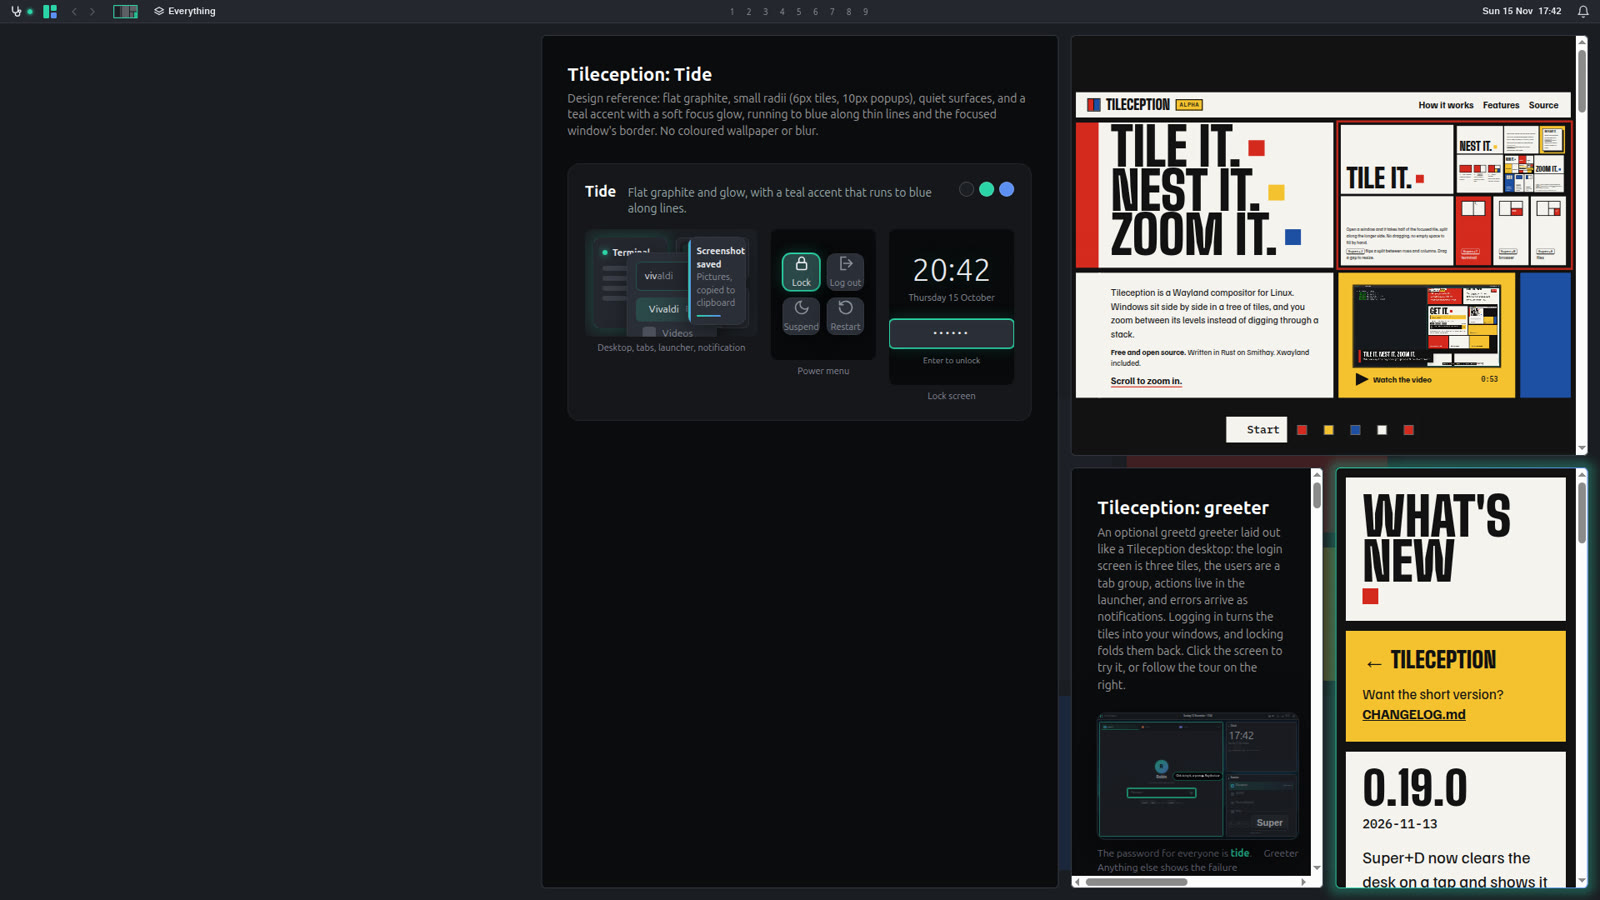
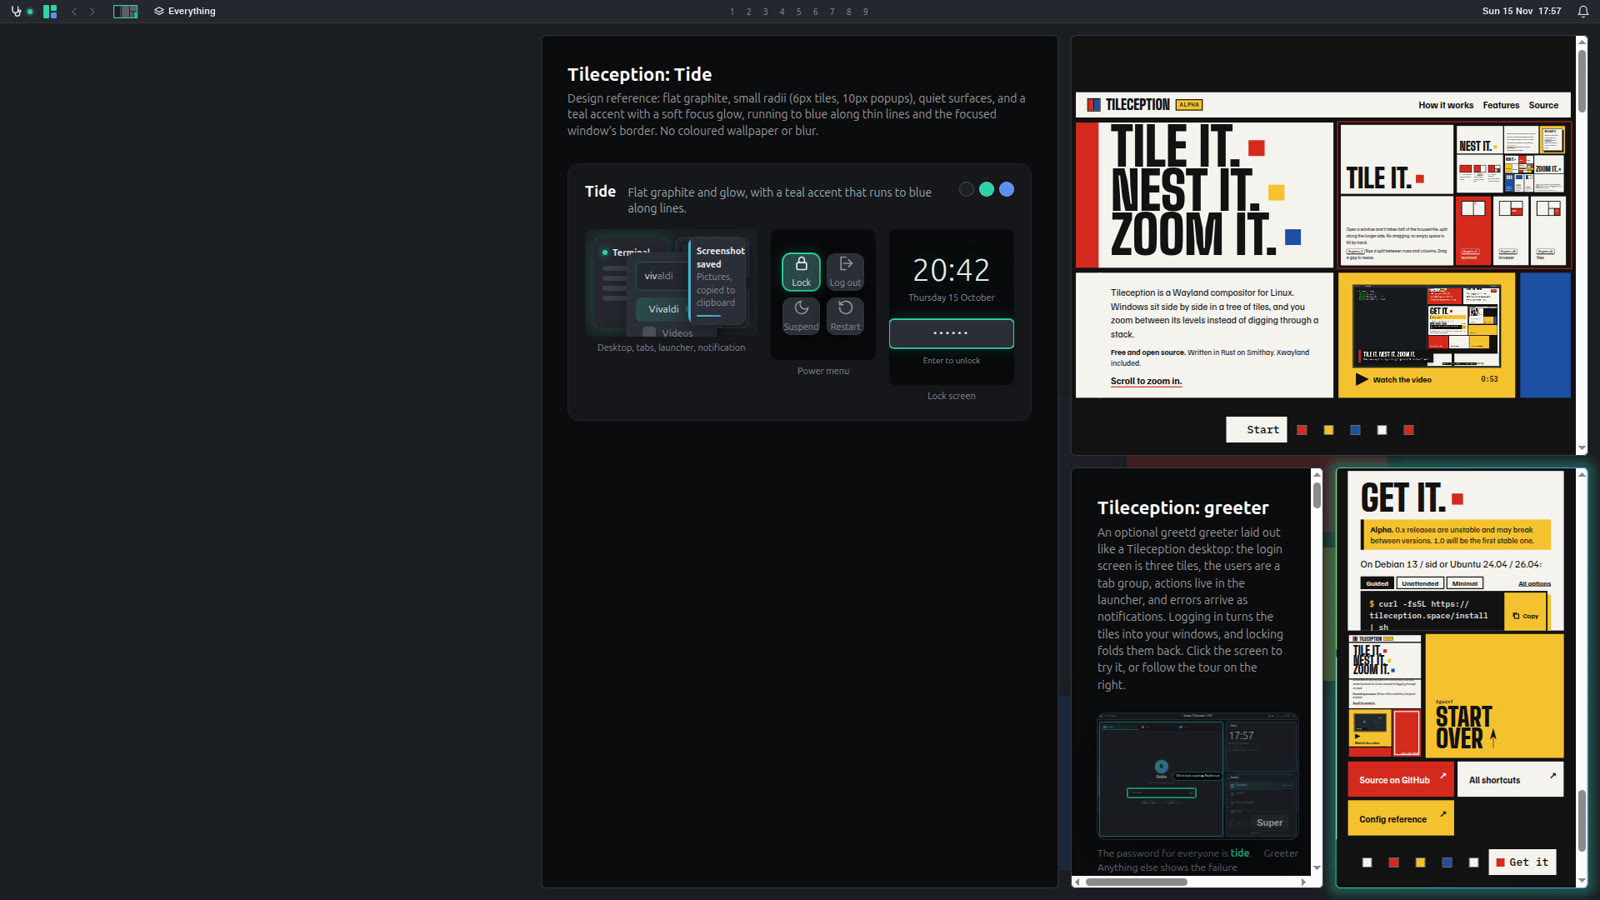
docs(changelog): refresh the 0.19.0 release entry

Changed region(s): [[0.8125, 0.4978, 1.0, 0.9956], [0.9062, 0.1244, 0.9688, 0.1556]]

diff --git a/website/public/changelog/index.html b/website/public/changelog/index.html
@@ -31,10 +31,11 @@
         </div>
       </header>
 <section class="cl-release" id="v0.19.0">
-<div class="blk cl-version"><div><h2 class="display">0.19.0</h2><time datetime="2026-11-13">2026-11-13</time></div><p>Super+D now clears the desk on a tap and shows it while you hold the keys. Settings asks before it drops changes you haven't applied, and a chip beside the clock shows your next event.</p></div>
-<article class="blk cl-hero"><div class="media"><div class="compare" style="--split: 50%" tabindex="0" role="slider" aria-label="Before and after" aria-valuemin="0" aria-valuemax="100" aria-valuenow="50"><img src="v0.19.0/desk-before.jpg" alt="Before: Super+D with four windows open" loading="lazy" /><div class="after-layer"><img src="v0.19.0/desk-after.jpg" alt="After: Super+D with four windows open" loading="lazy" /></div><div class="handle" aria-hidden="true"></div><span class="label before">Before</span><span class="label after">After</span></div></div><div class="text"><div class="labels"><span class="area" style="--c: var(--red)">Desk</span> <a class="issue" href="https://github.com/robinvandernoord/tileception/issues/87" target="_blank" rel="noopener">#87</a></div><h3 class="display">Tap Super+D to clear the desk, hold it to peek</h3><p>A tap minimizes every window and remembers the layout. Tap again to bring them back. Hold Super+D and the windows fade to outlines over the dashboard until you let go.</p><p class="caption">In 0.18.0, Super+D added an empty Desktop tile beside your windows. In 0.19.0, holding it shows the desk.</p></div></article>
-<div class="blk cl-side"><article class="blk cl-tile "><div class="media"><img src="v0.19.0/settings-after.jpg" alt="Settings open over three windows" loading="lazy" /></div><div class="text"><div class="labels"><span class="area" style="--c: var(--yellow)">Settings</span> <a class="issue" href="https://github.com/robinvandernoord/tileception/issues/43" target="_blank" rel="noopener">#43</a></div><h3>Settings asks before dropping your changes</h3><p>Close Settings with unapplied changes and it offers Apply, Discard or Cancel. Edits you make to <code>config.toml</code> while Settings is open show up in it.</p></div></article></div>
-<div class="blk cl-grid"><article class="blk cl-tile "><div class="text"><div class="labels"><span class="area" style="--c: var(--yellow)">Calendar</span> <a class="issue" href="https://github.com/robinvandernoord/tileception/issues/42" target="_blank" rel="noopener">#42</a></div><h3>Your next event beside the clock</h3><p>Add .ics files or calendar URLs under <code>[calendar]</code> in <code>config.toml</code>. A chip beside the clock shows the event that's on, or today's next one. Click it to see what's coming up.</p></div></article><article class="blk cl-tile y"><div class="text"><div class="labels"><span class="area" style="--c: var(--red)">Desk</span> <a class="issue" href="https://github.com/robinvandernoord/tileception/issues/87" target="_blank" rel="noopener">#87</a></div><h3>A dashboard on the empty desk</h3><p>A clear desk shows your notification count beside the welcome screen. Plugins with a <code>[dashboard]</code> block can add cards, images or a surface they draw themselves.</p></div></article><article class="blk cl-tile "><div class="text"><div class="labels"><span class="area" style="--c: var(--blue)">Handoff</span> <a class="issue" href="https://github.com/robinvandernoord/tileception/issues/84" target="_blank" rel="noopener">#84</a></div><h3>Handoff between screens of different sizes</h3><p>The pointer crosses where two machines' screen edges face each other. Each keyboard keeps its own layout, and typing in a streamed window reaches that window.</p></div></article><article class="blk cl-tile b"><div class="text"><div class="labels"><span class="area" style="--c: var(--blue)">Plugins</span> <a class="issue" href="https://github.com/robinvandernoord/tileception/issues/41" target="_blank" rel="noopener">#41</a></div><h3>Add a plugin with one command</h3><p><code>tileception msg plugin add &lt;command&gt;</code> writes the plugin into <code>config.toml</code> and starts it. The rest of the file, comments included, stays as it was. Doctor can do this for you when you ask.</p></div></article><article class="blk cl-tile "><div class="text"><div class="labels"><span class="area" style="--c: var(--yellow)">Bluetooth</span> <a class="issue" href="https://github.com/robinvandernoord/tileception/issues/75" target="_blank" rel="noopener">#75</a></div><h3>Bluetooth icons show the kind of device</h3><p>Headphones look like headphones, mice like mice. Keyboards, phones and game controllers get their own icons too.</p></div></article><article class="blk cl-tile r"><div class="text"><div class="labels"><span class="area" style="--c: var(--canvas)">Greeter</span> <a class="issue" href="https://github.com/robinvandernoord/tileception/issues/86" target="_blank" rel="noopener">#86</a></div><h3>The login screen can hold still</h3><p>Set <code>reduce_motion = true</code> in the greeter's settings and it fades instead of moving. A wrong password no longer shakes the field.</p></div></article><article class="blk cl-tile "><div class="text"><div class="labels"><span class="area" style="--c: var(--blue)">Smart home</span> <a class="issue" href="https://github.com/robinvandernoord/tileception/issues/79" target="_blank" rel="noopener">#79</a></div><h3>Humidity history next to temperature</h3><p>Smart home history now keeps humidity as well as temperature, for climate devices and standalone sensors. Settings lets you choose per device.</p></div></article></div>
+<div class="blk cl-version"><div><h2 class="display">0.19.0</h2><time datetime="2026-11-13">2026-11-13</time></div><p>Super+D now clears the desk, and holding it lets you peek at a new dashboard that plugins can fill. The bar can show your calendar, and Settings asks before it drops your changes.</p></div>
+<article class="blk cl-hero"><div class="media"><div class="compare" style="--split: 50%" tabindex="0" role="slider" aria-label="Before and after" aria-valuemin="0" aria-valuemax="100" aria-valuenow="50"><img src="v0.19.0/desk-before.jpg" alt="Before: Super+D on a desk with four windows" loading="lazy" /><div class="after-layer"><img src="v0.19.0/desk-after.jpg" alt="After: Super+D on a desk with four windows" loading="lazy" /></div><div class="handle" aria-hidden="true"></div><span class="label before">Before</span><span class="label after">After</span></div></div><div class="text"><div class="labels"><span class="area" style="--c: var(--red)">Desk</span> <a class="issue" href="https://github.com/robinvandernoord/tileception/issues/87" target="_blank" rel="noopener">#87</a></div><h3 class="display">Super+D clears the desk</h3><p>Tap Super+D to move every window on the screen to the minimized strip, and tap it again to bring them back where they were. Hold it to peek: windows fade to outlines until you let go.</p><p class="caption">Super+D in 0.18.0 opens the Desktop tile beside the windows. Held in 0.19.0, it shows the windows as outlines over the dashboard.</p></div></article>
+<div class="blk cl-side"><article class="blk cl-tile "><div class="media"><img src="v0.19.0/dashboard-after.jpg" alt="The welcome screen on a cleared desk, with the notification count and two plugin cards beside it" loading="lazy" /></div><div class="text"><div class="labels"><span class="area" style="--c: var(--red)">Desk</span> <a class="issue" href="https://github.com/robinvandernoord/tileception/issues/87" target="_blank" rel="noopener">#87</a></div><h3>The welcome screen has a dashboard</h3><p>A clear or empty desk shows a dashboard beside the welcome screen: your notification count, plus cards, pictures and animations from plugins. Drag items to move them, or click the round x to remove one.</p><p class="caption">A desk cleared with Super+D: the welcome screen, and the dashboard beside it.</p></div></article></div>
+<div class="blk cl-grid cl-pictures"><article class="blk cl-tile "><div class="media"><img src="v0.19.0/calendar-after.jpg" alt="The bar&#x27;s calendar chip reading until 18:18 Design review, with the calendar open below it" loading="lazy" /></div><div class="text"><div class="labels"><span class="area" style="--c: var(--yellow)">Calendar</span> <a class="issue" href="https://github.com/robinvandernoord/tileception/issues/42" target="_blank" rel="noopener">#42</a></div><h3>The bar shows your calendar</h3><p>List .ics files or calendar addresses under <code>[calendar]</code> in <code>config.toml</code>. A chip beside the clock names the event on now or the next one today. The calendar marks every day that has events.</p><p class="caption">The chip names the meeting on now. The calendar lists what is coming up and marks days with events.</p></div></article><article class="blk cl-tile "><div class="media"><img src="v0.19.0/settings-after.jpg" alt="Settings asking Apply your changes? with Discard, Cancel and Apply buttons" loading="lazy" /></div><div class="text"><div class="labels"><span class="area" style="--c: var(--yellow)">Settings</span> <a class="issue" href="https://github.com/robinvandernoord/tileception/issues/43" target="_blank" rel="noopener">#43</a></div><h3>Settings asks before closing</h3><p>Closing Settings with unapplied changes now asks whether to apply or discard them. Edits to <code>config.toml</code> show up while Settings is open, and a field you changed yourself keeps your edit.</p><p class="caption">One switch changed, then the X clicked.</p></div></article></div>
+<div class="blk cl-grid"><article class="blk cl-tile "><div class="text"><div class="labels"><span class="area" style="--c: var(--blue)">Plugins</span> <a class="issue" href="https://github.com/robinvandernoord/tileception/issues/41" target="_blank" rel="noopener">#41</a></div><h3>Add a plugin with one command</h3><p><code>tileception msg plugin add &lt;command&gt;</code> writes the plugin to <code>config.toml</code> and starts it. Add <code>--bar</code> to show its chips in the bar. Doctor can use it to set a plugin up for you.</p></div></article><article class="blk cl-tile y"><div class="text"><div class="labels"><span class="area" style="--c: var(--blue)">Handoff</span> <a class="issue" href="https://github.com/robinvandernoord/tileception/issues/84" target="_blank" rel="noopener">#84</a></div><h3>Handoff handles screens of different sizes</h3><p>The pointer crosses to another machine only where the two screen edges face each other, as between screens of one machine. Turn on <code>stretch_screen_edges</code> for the old way. Each keyboard types with its own layout on either machine.</p></div></article><article class="blk cl-tile "><div class="text"><div class="labels"><span class="area" style="--c: var(--blue)">Smart home</span> <a class="issue" href="https://github.com/robinvandernoord/tileception/issues/79" target="_blank" rel="noopener">#79</a></div><h3>Smart home history includes humidity</h3><p>Temperature and humidity sensors show a trend line of their last six hours. For a device that reports both, History on the Smart home page in Settings picks which one the trend shows.</p></div></article><article class="blk cl-tile b"><div class="text"><div class="labels"><span class="area" style="--c: var(--canvas)">Greeter</span> <a class="issue" href="https://github.com/robinvandernoord/tileception/issues/86" target="_blank" rel="noopener">#86</a></div><h3>The login screen can reduce motion</h3><p>Set <code>reduce_motion = true</code> in <code>/etc/tileception/greeter.toml</code> and the login and lock screens fade instead of moving. A wrong password no longer shakes the field, and the waiting dots hold still.</p></div></article><article class="blk cl-tile "><div class="text"><div class="labels"><span class="area" style="--c: var(--yellow)">Bluetooth</span> <a class="issue" href="https://github.com/robinvandernoord/tileception/issues/75" target="_blank" rel="noopener">#75</a></div><h3>Bluetooth icons show the kind of device</h3><p>Headphones now show as headphones, a mouse as a mouse and a game controller as a game controller. Devices of an unknown kind keep the Bluetooth glyph.</p></div></article></div>
 </section>
     </main>
   </body>
